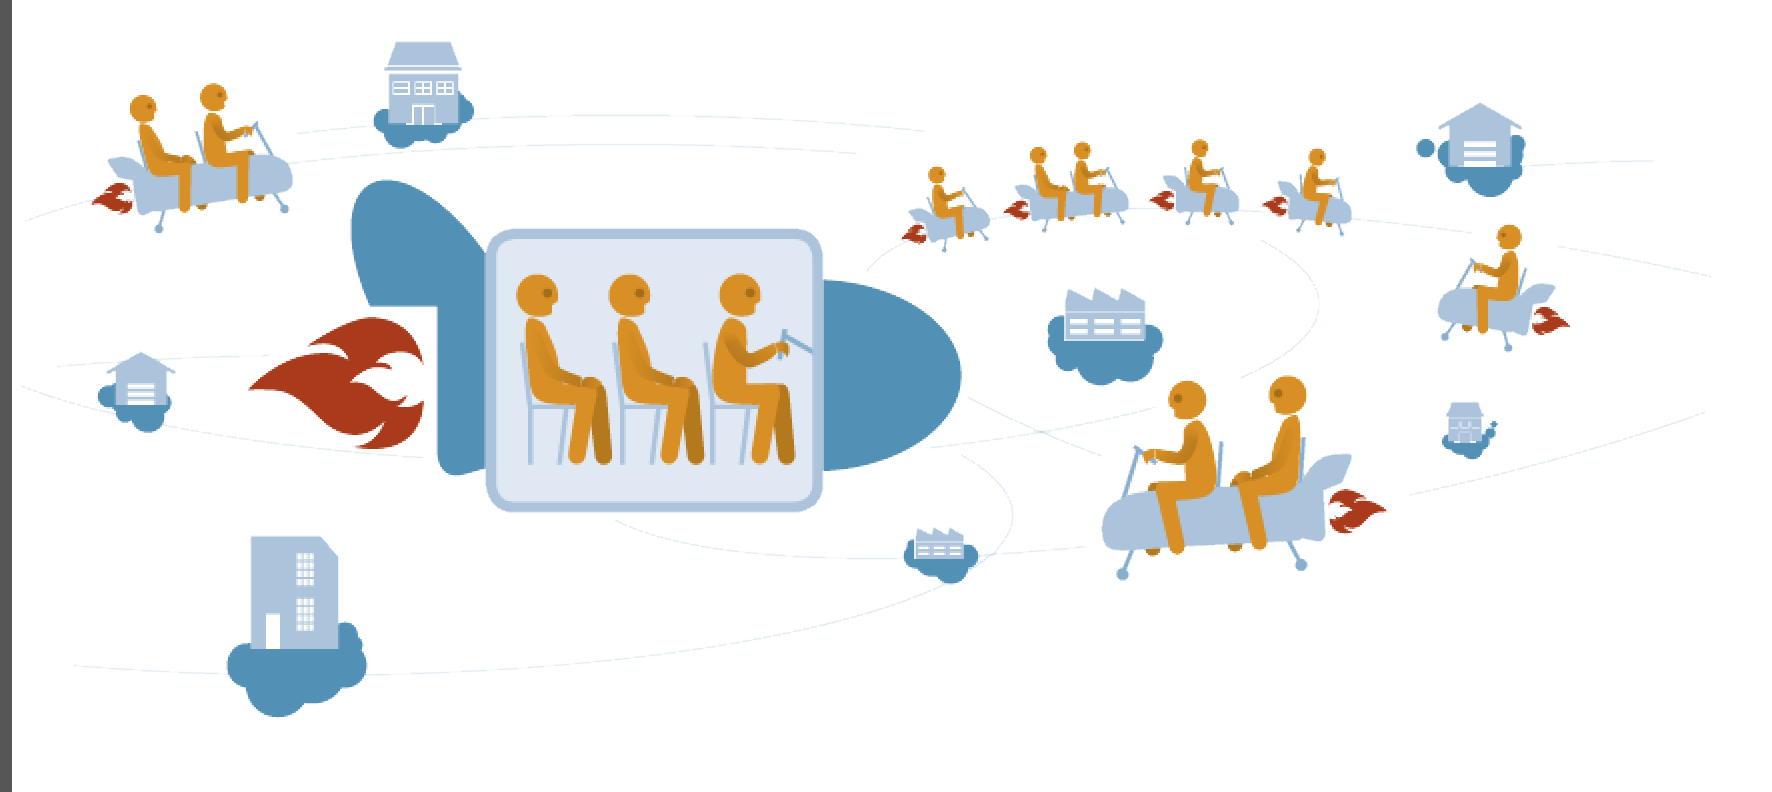
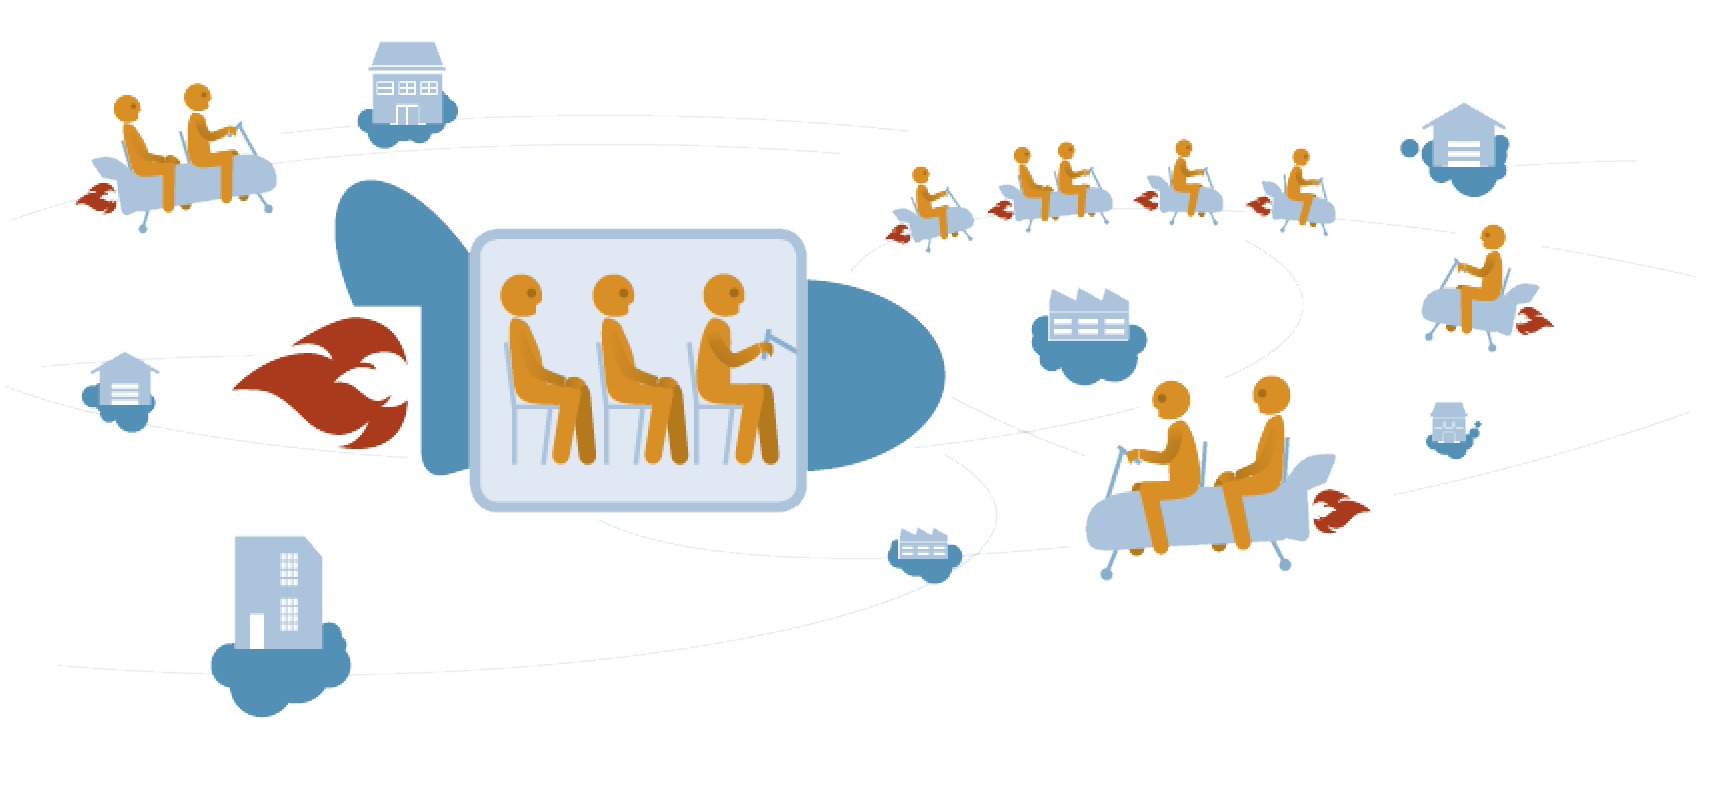
redesign past tracks and underline graphic

diff --git a/src/templates/track.js b/src/templates/track.js
@@ -12,7 +12,6 @@ import Button from "@material-ui/core/Button";
 
 import Layout from "../layouts/default.js";
 import Section from "../components/common/Section";
-import ImageCarousel from "../components/common/ImageCarousel"
 import { EditableText, EditableParagraph, EditableImageUpload } from "react-easy-editables"
 import { uploadImage } from "../firebase/operations"
 
@@ -20,6 +19,8 @@ import bgImg1 from "../assets/images/shapes/polygon-lg-white.svg"
 import bgImg2 from "../assets/images/shapes/triangle-orange.svg"
 import bgImg3 from "../assets/images/shapes/circuit-board-white.svg"
 import bgImg4 from "../assets/images/shapes/polygon-red.svg"
+import defaultImage1 from "../assets/images/head.png"
+import defaultImage2 from "../assets/images/tour.png"
 
 import "slick-carousel/slick/slick.css";
 import "slick-carousel/slick/slick-theme.css";
@@ -141,9 +142,6 @@ class TrackTemplate extends React.Component {
     const content = this.props.pageData ? this.props.pageData.content : {};
     const introSlides = content["intro-slides"] || [];
     const trackLeads = content["track-leads"] || [];
-    const questions = Object.keys(introSlides)
-    const colorClasses = ["orange", "gray", "red", "blue"]
-    const justifications = ["flex-start", "flex-end", "center"]
 
     return (
       <Layout className="track-page" location={this.props.location}>
@@ -182,7 +180,7 @@ class TrackTemplate extends React.Component {
           {
             introSlides["how"] &&
             <div className="question pb-40 pt-40">
-              <Grid container justify="space-between" alignItems="center" spacing={6}>
+              <Grid container justify="space-between" alignItems="stretch">
 
                 <Grid item xs={12} md={5}>
                   <h3>
@@ -196,15 +194,34 @@ class TrackTemplate extends React.Component {
                   </div>
                 </Grid>
 
-                <Grid item xs={12} md={7}>
-                  <div className="img">
-                    <EditableImageUpload
+                <Grid item xs={12} md={7} style={{ position: "relative", minHeight: "260px" }}>
+                  <EditableImageUpload
                       classes="track-icon"
-                      content={ content["track-img-1"] }
+                      content={ content["track-img-1"] ? content["track-img-1"] : { imageSrc: defaultImage1, title: "Image placeholder" } }
                       onSave={this.onSave('track-img-1')}
                       uploadImage={uploadImage}
+                      styles={{
+                        container: {
+                          height: "100%",
+                          width: "100%",
+                          display: "flex",
+                          justify: "center",
+                          alignItems: "center",
+                          position: "absolute",
+                          top: 0,
+                          right: 0,
+                          bottom: 0,
+                          left: 0,
+                          paddingLeft: "20px",
+                          paddingRight: "20px",
+                        },
+                        image: {
+                          objectFit: "contain",
+                          height: "100%",
+                          width: "100%"
+                        }
+                      }}
                     />
-                  </div>
                 </Grid>
               </Grid>
             </div>
@@ -232,16 +249,37 @@ class TrackTemplate extends React.Component {
           {
             introSlides["who"] &&
             <div className="question pb-40 pt-40">
-              <Grid container justify="space-between" alignItems="center" spacing={6}>
-                <Grid item xs={12} md={7}>
-                  <div className="img">
+              <Grid container justify="space-between" alignItems="stretch">
+                <Grid item xs={12} md={7} style={{ position: "relative", minHeight: "260px" }}>
+
                     <EditableImageUpload
                       classes="track-icon"
-                      content={ content["track-img-2"] }
+                      content={ content["track-img-2"] ? content["track-img-2"] : { imageSrc: defaultImage2, title: "Image placeholder" } }
                       onSave={this.onSave('track-img-2')}
                       uploadImage={uploadImage}
+                      styles={{
+                        container: {
+                          height: "100%",
+                          width: "100%",
+                          display: "flex",
+                          justify: "center",
+                          alignItems: "center",
+                          position: "absolute",
+                          top: 0,
+                          right: 0,
+                          bottom: 0,
+                          left: 0,
+                          paddingLeft: "20px",
+                          paddingRight: "20px",
+                        },
+                        image: {
+                          objectFit: "contain",
+                          height: "100%",
+                          width: "100%",
+                        }
+                      }}
                     />
-                  </div>
+
                 </Grid>
 
                 <Grid item xs={12} md={5}>

diff --git a/src/pages/apply.js b/src/pages/apply.js
@@ -2,7 +2,7 @@ import React, { createRef } from "react";
 import { graphql } from "gatsby";
 import { connect } from "react-redux";
 import Parallax from 'parallax-js'
-import { EditableText, EditableParagraph, EditableLink, EditableImageUpload } from "react-easy-editables"
+import { EditableText, EditableImageUpload } from "react-easy-editables"
 import { uploadImage } from "../firebase/operations"
 
 import {
@@ -16,24 +16,14 @@ import Grid from "@material-ui/core/Grid"
 
 import Layout from "../layouts/default.js";
 import Section from "../components/common/Section";
-import TrackList from "../components/common/TrackList"
-import TrackRecord from "../components/common/TrackRecord"
-import PartnerLogo from "../components/common/PartnerLogo"
-import Collection from "../components/common/Collection";
-import PopoutVideo from "../components/common/PopoutVideo"
-
-import { DEFAULT_COMPONENT_CONTENT } from "../utils/constants"
 
 import bgImg1 from "../assets/images/shapes/triangle-blue.svg"
 import bgImg2 from "../assets/images/shapes/header-triangle-orange.svg"
-import bgImg4 from "../assets/images/shapes/header-triangle-light-blue.svg"
-import robot from "../assets/images/head.png"
-import circuitBoard from "../assets/images/shapes/circuit-board-blue.svg"
 
 import "slick-carousel/slick/slick.css";
 import "slick-carousel/slick/slick-theme.css";
 
-const PAGE_ID = "home"
+const PAGE_ID = "apply"
 
 const mapDispatchToProps = dispatch => {
   return {
@@ -116,6 +106,7 @@ class HomePage extends React.Component {
           <div className="" data-aos="fade-in">
             <iframe
               className="airtable-embed"
+              title="Webinar Application Form"
               src="https://airtable.com/embed/shrOhT60muF57KGJb?backgroundColor=purple"
               frameBorder="0"
               onMousewheel=""

diff --git a/src/components/navigation/Header.jsx b/src/components/navigation/Header.jsx
@@ -145,7 +145,7 @@ class Navigation extends React.Component {
               </div>
             </Grid>
             <Grid item>
-              <Link to="/" className="btn blue">Apply now!</Link>
+              <Link to="/apply" className="btn blue">Apply now!</Link>
             </Grid>
           </Grid>
         </Hidden>
@@ -186,7 +186,7 @@ class Navigation extends React.Component {
                 <MenuItem onClick={this.handleClose} component={Link} to={"/africa-for-the-future"}>#Africa4Future</MenuItem>
                 <MenuItem onClick={this.handleClose} component={Link} to={"/past-events"}>Past Editions</MenuItem>
                 <MenuItem onClick={this.handleClose} component={Link} to={"/faq"}>FAQ</MenuItem>
-                <MenuItem onClick={this.handleClose} className="btn blue" component={Link} to={"/register"}>Apply now!</MenuItem>
+                <MenuItem onClick={this.handleClose} className="btn blue" component={Link} to={"/apply"}>Apply now!</MenuItem>
               </Menu>
             </Grid>
           </Grid>

diff --git a/src/pages/africa-for-the-future.js b/src/pages/africa-for-the-future.js
@@ -20,13 +20,11 @@ import TrackList from "../components/common/TrackList"
 import TrackRecord from "../components/common/TrackRecord"
 import PartnerLogo from "../components/common/PartnerLogo"
 import Collection from "../components/common/Collection";
-import PopoutVideo from "../components/common/PopoutVideo"
 
 import { DEFAULT_COMPONENT_CONTENT } from "../utils/constants"
 
 import bgImg1 from "../assets/images/shapes/triangle-blue.svg"
 import bgImg2 from "../assets/images/shapes/header-triangle-orange.svg"
-import bgImg4 from "../assets/images/shapes/header-triangle-light-blue.svg"
 import robot from "../assets/images/head.png"
 import circuitBoard from "../assets/images/shapes/circuit-board-blue.svg"
 

diff --git a/src/pages/past-events.js b/src/pages/past-events.js
@@ -24,7 +24,7 @@ import bgPolygonRed from "../assets/images/shapes/polygon-lg-white.svg"
 import bgPolygonBlue from "../assets/images/shapes/polygon-lg-blue.svg"
 
 import bgImg1 from "../assets/images/shapes/header-triangle-orange.svg"
-import bgImg2 from "../assets/images/shapes/polygon-lg-blue.svg"
+// import bgImg2 from "../assets/images/shapes/polygon-lg-blue.svg"
 import thumbnail from "../assets/images/thumbnail2017.jpg"
 
 import "slick-carousel/slick/slick.css";

diff --git a/src/components/navigation/Footer.jsx b/src/components/navigation/Footer.jsx
@@ -39,7 +39,7 @@ const Footer = props => {
               </Grid>
 
               <Grid item xs={12} md={4}>
-                <Link to={"/"} className="btn blue mt-10">Apply now!</Link>
+                <Link to={"/apply"} className="btn blue mt-10">Apply now!</Link>
               </Grid>
 
             </Grid>

diff --git a/src/components/navigation/AccountButton.jsx b/src/components/navigation/AccountButton.jsx
@@ -1,5 +1,5 @@
 import React from "react";
-import { push, Link } from "gatsby";
+import { push } from "gatsby";
 import firebase, { stagingFirebase } from "../../firebase/init";
 import { connect } from "react-redux";
 import Button from "@material-ui/core/Button"
